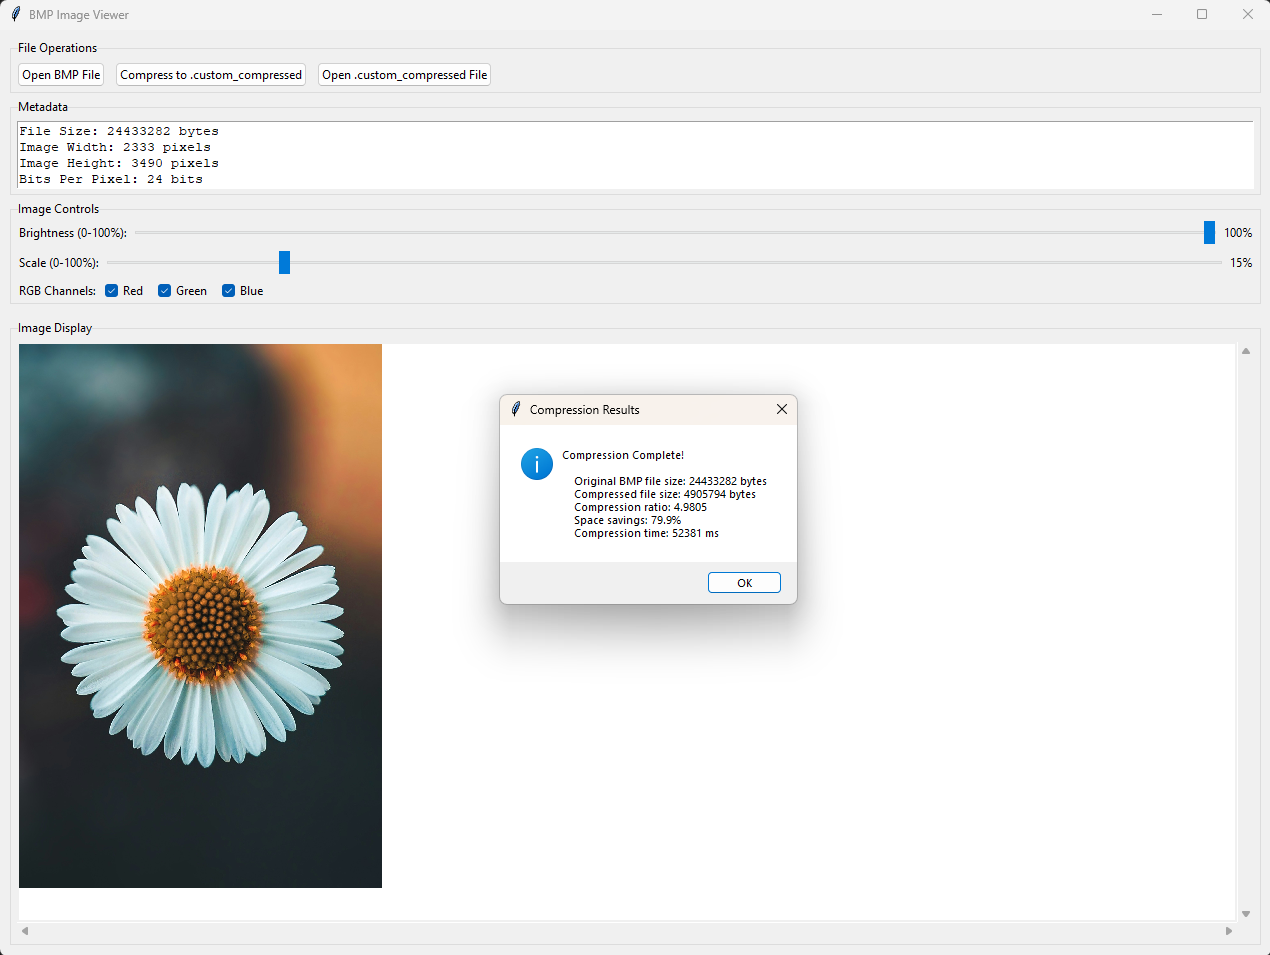
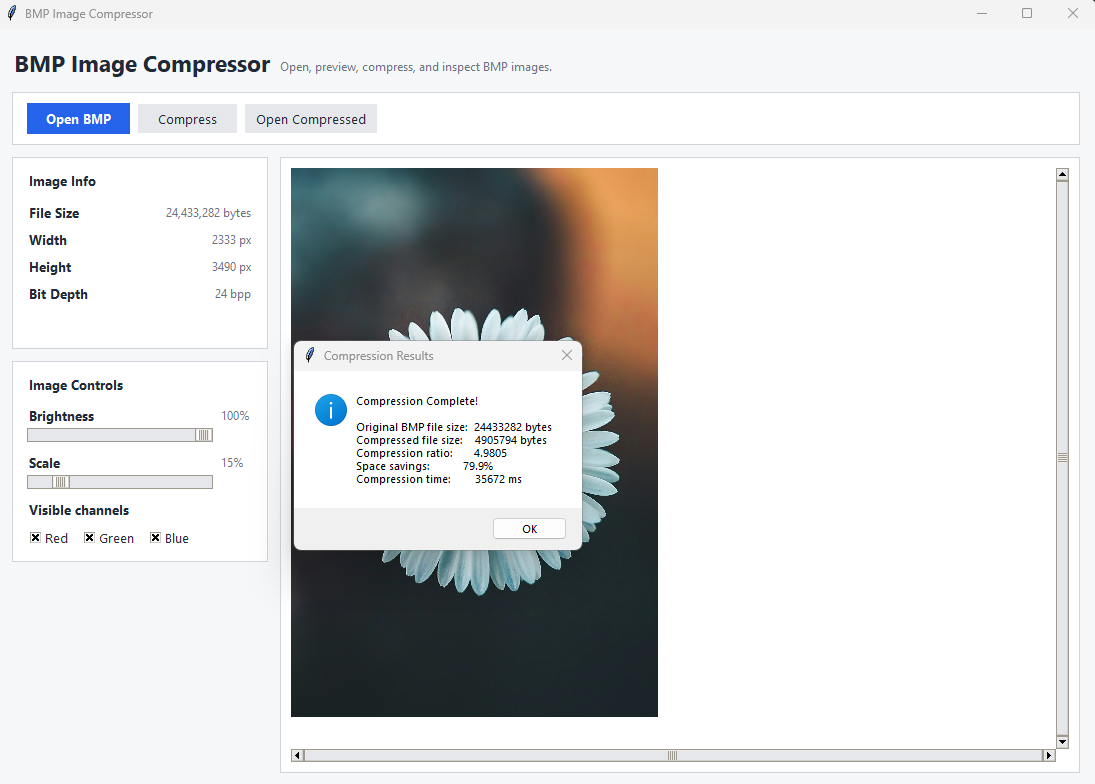
Fixed images in README.md

diff --git a/README.md b/README.md
@@ -1,23 +1,21 @@
-# 🖼️ Lossless Image Compression Software
+# Lossless Image Compression Engine
 
-A powerful, multi-stage lossless image compression tool that combines advanced algorithms to achieve exceptional compression ratios without any quality loss. Built with Python and featuring an intuitive GUI, this tool makes professional-grade image compression accessible to everyone.
+This project implements a lossless BMP image compression pipeline using Paeth prediction, Run-Length Encoding (RLE), and Huffman coding. It also includes a Tkinter-based desktop application for compressing, decompressing, and inspecting BMP images.
 
 <p align="center">
   <img src="screenshots/app_screenshot.png" alt="Main application interface" />
 </p>
 
-## ✨ Features
+## Features
 
-- **🎯 Multi-Stage Compression Pipeline**: Combines Paeth prediction, Run-Length Encoding (RLE), and Huffman coding for optimal results
-- **📊 Impressive Compression Ratios**: Achieves up to 77% compression across various BMP image types (4-24 bit/pixel)
-- **🎨 Wide Format Support**: Handles multiple BMP formats including 4-bit, 8-bit, and 24-bit per pixel
-- **📈 Real-Time Performance Metrics**: Live tracking of file sizes, compression ratios, and processing time
-- **🚀 Zero Crashes**: Comprehensive edge case handling ensures stable operation
-- **💾 Efficient Storage**: Optimized Huffman tree serialization reduces overhead by 40-80%
-- **🧠 Smart Algorithm Selection**: Automatically chooses the best compression techniques for each image type
-- **🖥️ User-Friendly GUI**: Clean Tkinter interface with intuitive controls
+- Uses a three-stage compression pipeline consisting of Paeth prediction, Run-Length Encoding (RLE), and Huffman coding.
+- Achieves up to 77% file size reduction on tested BMP images, depending on image content and color depth.
+- Supports 4-bit, 8-bit, and 24-bit BMP images.
+- Displays the original file size, compressed file size, compression ratio, space saved, and compression time.
+- Uses an optimized Huffman tree serialization format that reduces tree storage overhead by 40-80%, depending on the generated tree.
+- Validates unsupported, corrupted, and invalid input files before processing.
 
-## 🚀 Getting Started
+##  Getting Started
 
 ### Prerequisites
 
@@ -28,16 +26,13 @@ A powerful, multi-stage lossless image compression tool that combines advanced a
 
 1. Clone the repository:
 ```bash
-git clone https://github.com/yAsh-081/Lossless-Image-Compression-Software.git
-cd Lossless-Image-Compression-Software
+git clone https://github.com/yAsh-081/Lossless-Image-Compression-Engine.git
+cd Lossless-Image-Compression-Engine
 ```
 
-2. Get numpy library for image vector processing:
-```
-pip install numpy
-```
-or
-```
+2. Install the required dependencies:
+
+```bash
 pip install -r requirements.txt
 ```
 
@@ -50,13 +45,13 @@ python main.py
 
 2. **Select an image**: Click the "Open BMP File" button to choose a BMP image
 
-3. **Compress**: Click the "Compress to .custom_compressed" button and name the new compressed file (to save it for future use) to start the compression process
+3. **Compress**: Click "Compress to .custom_compressed" and choose where to save the compressed file.
 
 4. **View Results**: The application will display:
    - Original BMP file size
    - Compressed file size
    - Compression ratio percentage
-   - Space saved on the memory
+   - Storage saved
    - Compression time
 
 5. **Decompress** (optional): Load a compressed file and decompress it to restore the original image by clicking "Open .custom_compressed File"
@@ -66,47 +61,63 @@ python main.py
   <img src="screenshots/compression_demo.png" alt="Compression process demonstration" />
 </p>
 
-## 🔧 How It Works
+##  How It Works
 
-The compression pipeline uses a sophisticated three-stage approach:
+The compression pipeline consists of three stages.
 
 ### 1. Paeth Prediction
-Predicts pixel values based on neighboring pixels (left, top, and top-left), reducing data redundancy by storing only the prediction errors.
+Each pixel is predicted using its neighboring pixels (left, top, and top-left). Instead of storing raw pixel values, the compressor stores prediction errors, which typically have lower entropy.
 
 ### 2. Run-Length Encoding (RLE)
-Efficiently encodes sequences of identical values, particularly effective for images with uniform regions or patterns.
+The prediction errors are scanned for repeated values. Consecutive runs are replaced with value-length pairs to reduce redundancy.
 
 ### 3. Huffman Coding
-Assigns variable-length codes to symbols based on their frequency, with more common values receiving shorter codes for optimal compression.
+The RLE output is encoded using Huffman coding, assigning shorter bit sequences to more frequent symbols.
 
-### Dynamic Technique Selection
-The software intelligently analyzes each image and selects the optimal combination of techniques, improving average compression ratios by 15-25% across diverse image types.
+The resulting compressed data, together with image metadata and the serialized Huffman tree, is stored in the custom compressed file format.
 
 
-## 🛠️ Technical Details
+## Technical Details
 
 ### Supported Formats
 - BMP (4-bit per pixel)
 - BMP (8-bit per pixel)
 - BMP (24-bit per pixel)
 
-### Compression Format
-Compressed files use a custom binary format (`.custom_compressed`) that includes:
+### Output Format
+
+Compressed images are stored in a custom binary format (`.custom_compressed`) containing:
+
+- Image metadata
+- Serialized Huffman tree
 - Compressed image data
-- Huffman tree structure (optimized serialization)
-- Metadata for perfect reconstruction
 
-### Edge Cases Handled
-- Empty or corrupted image files
-- Images with unusual dimensions
-- Edge pixels without complete neighbor sets
-- Memory constraints for large files
-- Invalid file formats
+### Error Handling
 
-## 📁 Project Structure
+The application validates common error conditions including:
+
+- Unsupported file types
+- Corrupted input files
+- Invalid compressed files
+- Images with uncommon dimensions
+
+## Results
+
+The compressor was evaluated on multiple BMP images.
+
+| Image | Original Size (bytes) | Compressed Size (bytes) | Compression Ratio |
+|--------|---------------|-----------------|-------------------|
+| image1.bmp | 12,372,882 | 8,844,966 | 1.3989× |
+| image2.bmp | 9,730,482 | 6,477,536 | 1.5022× |
+| image3.bmp | 11,523,282 | 5,022,088 | 2.2945× |
+| image4.bmp | 24,433,282 | 4,905,794 | 4.9805× |
+
+Compression ratios vary depending on image characteristics such as color depth, repeated patterns, and local redundancy.
+
+## Project Structure
 
 ```
-Lossless-Image-Compression-Software/
+Lossless-Image-Compression-Engine/
 ├── main.py    # Complete application (GUI + algorithms)
 ├── test_images/                  # Test images (4 sample BMP files with compressed version)
 │   ├── image1.bmp
@@ -117,20 +128,11 @@ Lossless-Image-Compression-Software/
 └── README.md
 ```
 
-## 🤝 Contributing
-
-Contributions are welcome! Please feel free to submit a Pull Request. For major changes, please open an issue first to discuss what you would like to change.
-
-## 📝 License
+## License
 
 This project is licensed under the MIT License - see the [LICENSE](LICENSE) file for details.
 
 
-## 📧 Contact
-
-For questions or feedback, please open an issue on GitHub.
-
----
-
 **Author**: Yash Patel
-**Repository**: [github.com/yAsh-081/Lossless-Image-Compression-Software](https://github.com/yAsh-081/Lossless-Image-Compression-Software)
+
+GitHub: https://github.com/yAsh-081